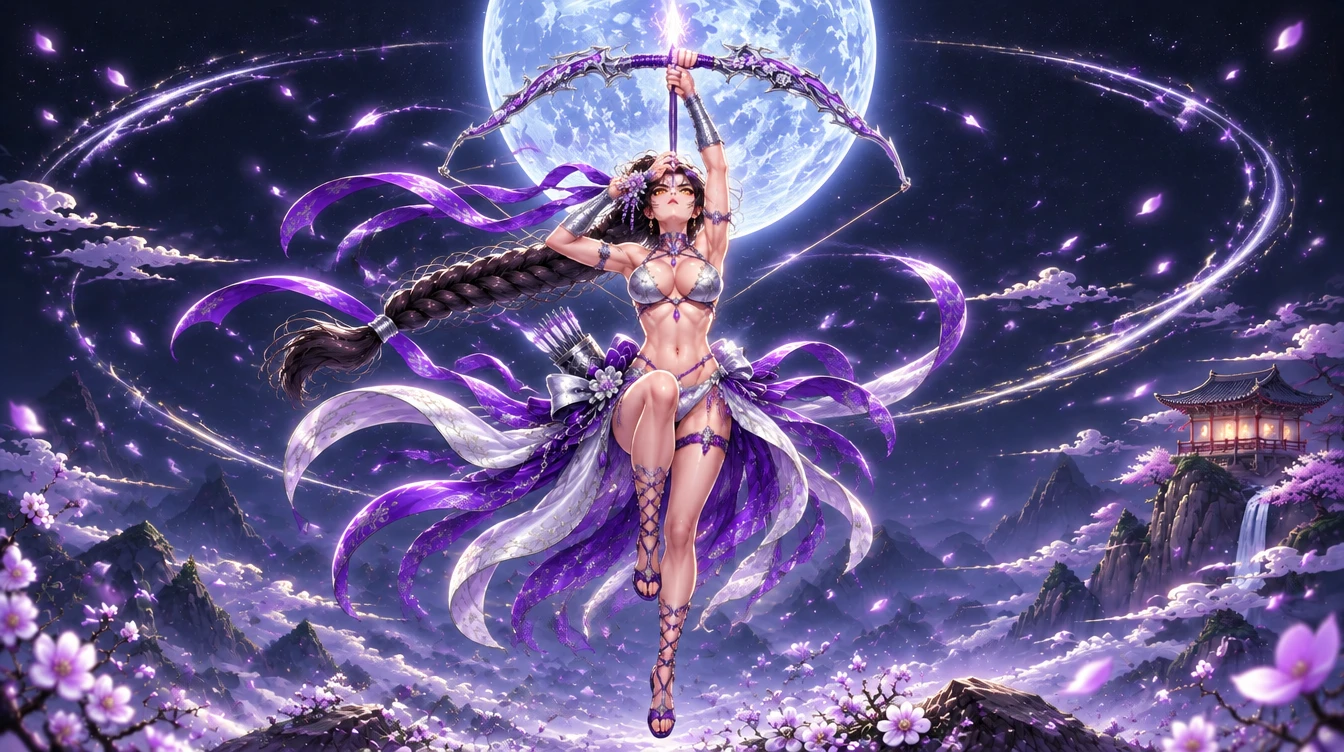
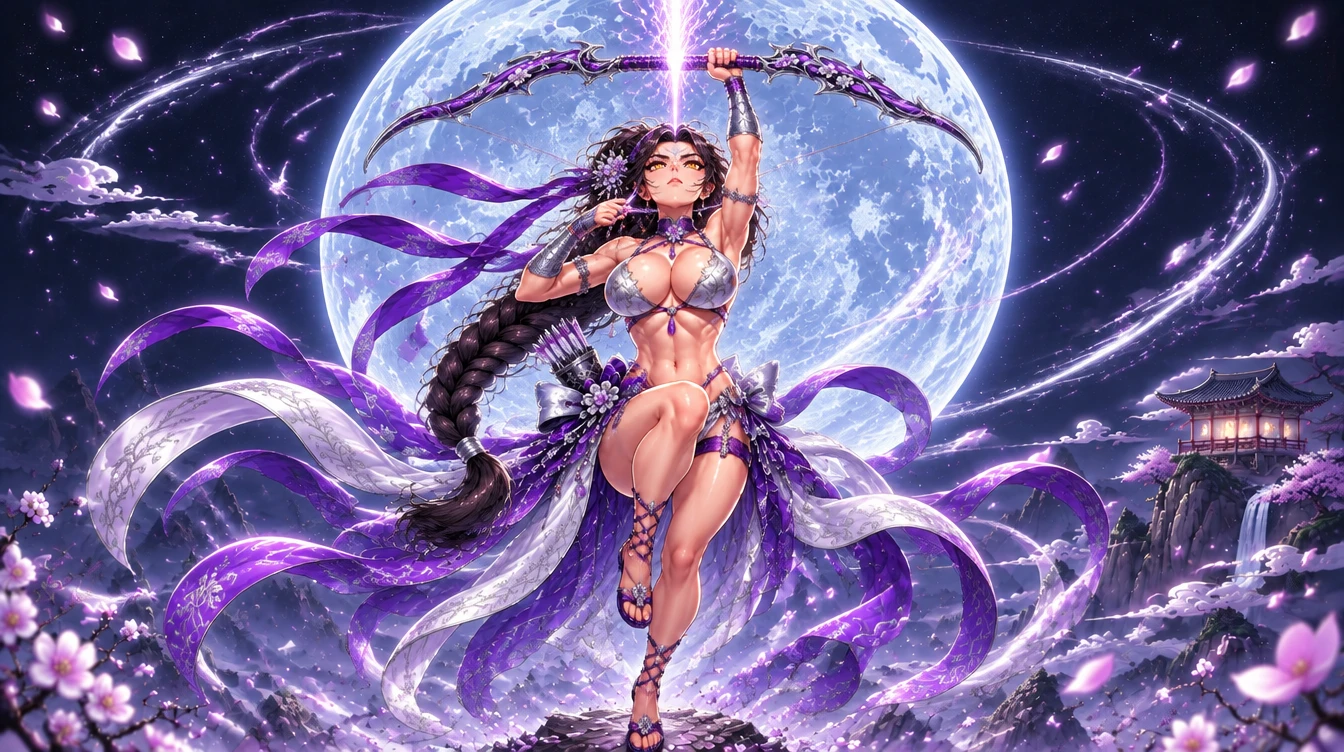
그림: 달래 각성 동작 3차(원본 몸 참고로 몸 비율 유지), 몸 비율 규칙 정정
Claude-Session: https://claude.ai/code/session_01X3WCR5nTXLkTaQuYbPMPiQ

diff --git a/game-design/art/그림_규칙.md b/game-design/art/그림_규칙.md
@@ -5,7 +5,7 @@
 - 원본 그림체 = 원본 기준 그림(1-1 표)의 얼굴 생김새, 선 굵기, 채색·광택, 몸 비율, 캐릭터 크기.
 - 그림체가 조금이라도 달라 보이면 **사용자에게 보내지 않는다.** 다시 그리고, 그래도 안 되면 "이 요청은 그림체를 지키며 하기 어렵다"고 말한다.
 - **정면 얼굴도 원본 그림체로 그린다.** 원본 기준 그림은 얼굴이 모두 3/4 측면이라, 참고 없이 정면을 그리면 AI가 얼굴을 지어내 그림체가 틀어진다(11/21 달래 시안 「위로 뛰어 활」「사슬낫」). 그래서 캐릭터마다 **「정면 얼굴 기준 그림」**을 먼저 만들어 사용자 확인을 받고(`art/정면얼굴/`), 정면 얼굴이 나오는 그림에는 원본 기준 그림 + 원본 얼굴 확대본 + 정면 얼굴 기준 그림을 함께 넣는다. 정면 얼굴 기준이 아직 없는 캐릭터는 3/4 측면으로 그린다.
-- **몸 비율도 원본 그대로.** 정면·가까운 구도로 바꾸면 AI가 가슴을 키우고 몸통을 굵게, 다리를 짧게 그린다(11/21 달래 각성 동작 1차에서 생김). 지시문에 원본 비율을 적는다(달래: 약 8등신, 작은 머리, 긴 다리, 가는 허리·팔, 가슴은 원본보다 크지 않게). 그리고 **원본과 같은 거리의 전신 구도**로 그린다. 확인할 때 원본과 같은 크기로 나란히 놓고 머리 크기 대비 키·다리 길이·허리를 본다.
+- **몸 비율은 원본 사진(원본 기준 그림)을 기준으로 유지한다.** 체형을 글로 설명하지 않는다("가늘게, 8등신" 같은 말을 넣었더니 원본보다 마르고 작아짐, 11/21). 대신 **원본에서 몸만 잘라낸 그림을 「몸 참고」로 따로 넣고** "어깨 폭·가슴·허리·엉덩이·근육·허벅지 굵기·팔다리 길이를 이 그림과 똑같이, 더 마르거나 크게 하지 말 것", "캐릭터를 원본만큼 크게(머리가 위쪽 끝, 몸이 화면 높이를 채움)"라고 적는다. 정면·가까운 구도에서 가슴이 커지거나 몸통이 굵어지는 것도 같은 방법으로 막는다. 확인은 원본과 같은 크기로 나란히 놓고 어깨 폭·허벅지 굵기·머리 크기를 본다. 몸 참고: 달래 = Higgsfield 5ffa5729-3a79-4d71-b160-980cd96e5cd9(`awake_dallae` 몸 부분)
 - 바꾸는 폭이 작을수록 그림체가 잘 지켜진다: **색·옷 무늬 바꾸기 → 옷·소품·무기 바꾸기(원본 자세 유지) → 자세 바꾸기** 순서로 위험이 커진다. 큰 변경은 원본을 고쳐 그리는 방식(원본 한 장만 참고로 넣고 "바꿀 부분만 바꾸고 나머지는 그대로")을 먼저 쓴다.
 
 **새 그림은 반드시 기존 그림을 참고로 넣어 그린다. 그림 기법(그림체)은 바꾸지 않는다.** (사용자 결정, 11/21)

diff --git a/game-design/art/달래각성_동작/README.md b/game-design/art/달래각성_동작/README.md
@@ -8,3 +8,7 @@
 ## 2차 (사용자: 몸 비율이 틀어짐 → 다시)
 1차는 정면·가까운 구도라 가슴이 커지고 몸통이 굵고 다리가 짧아짐. 지시문에 원본 비율(약 8등신·작은 머리·긴 다리·가는 허리, 가슴은 원본보다 크지 않게)과 원본과 같은 거리의 전신 구도를 넣어 다시 그려 같은 이름으로 덮어씀.
 - 1 job 2b6b3691-571f-4ff0-8bca-4d1bead45f64 · 2 job 6aace1ed-013f-4e23-98b8-305c55d9175a · 3 job b5716fdf-b4a5-48e1-8cd6-56dc0d1aaf2c
+
+## 3차 (사용자: 원본 사진 기준으로 몸 비율 유지)
+2차는 "가늘게·8등신"을 글로 적어 원본보다 마르고 작아짐. 체형 설명을 빼고 원본 몸 부분을 잘라낸 「몸 참고」(5ffa5729…)를 넣어 다시 그림. 같은 이름으로 덮어씀.
+- 1 job 825cd46a-9e88-4c50-8ca0-f963e47bdb3b · 2 job 77e78763-7115-463f-afcc-8344eba1138d · 3 job da6879bf-7890-467f-a206-fbf9959a3b7a
